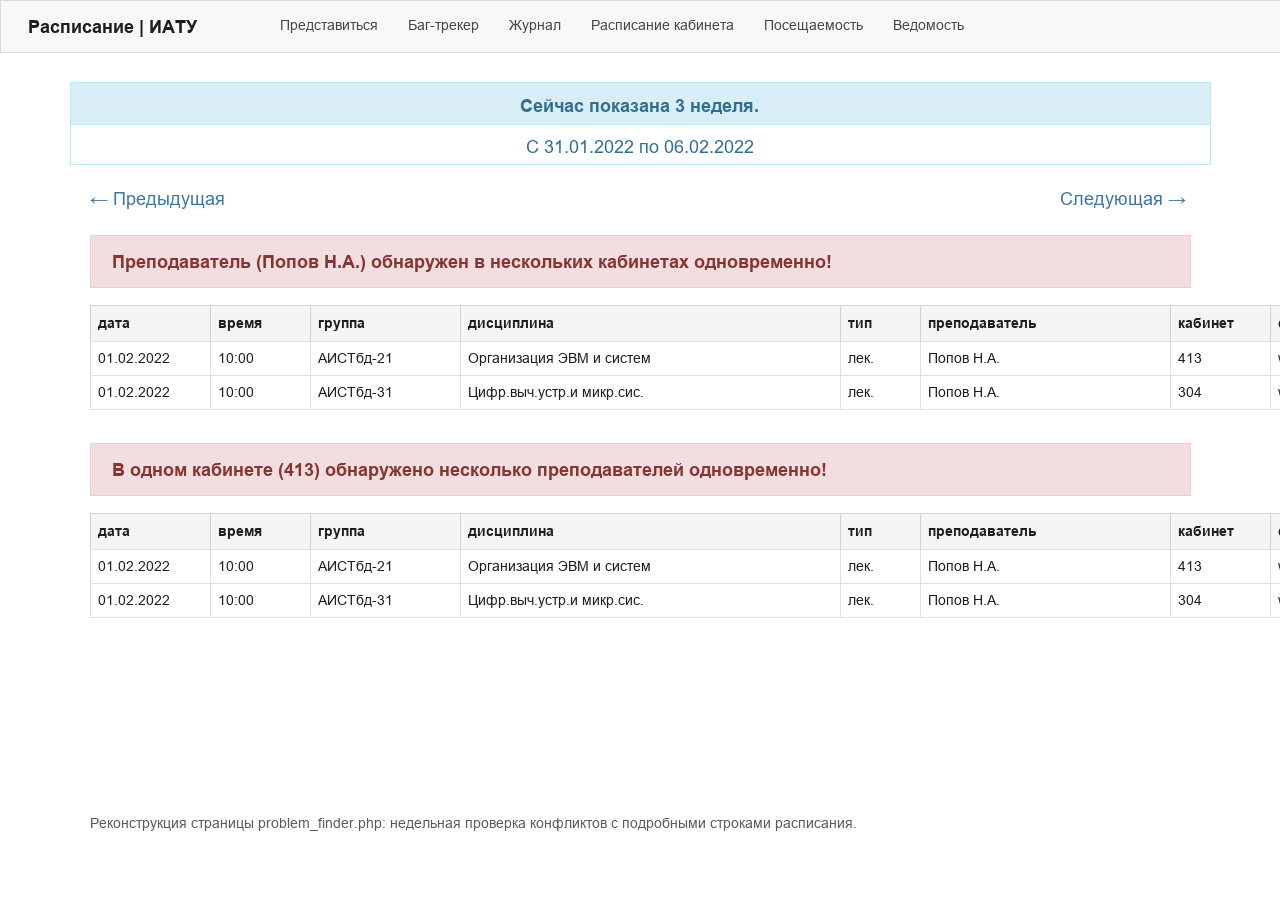
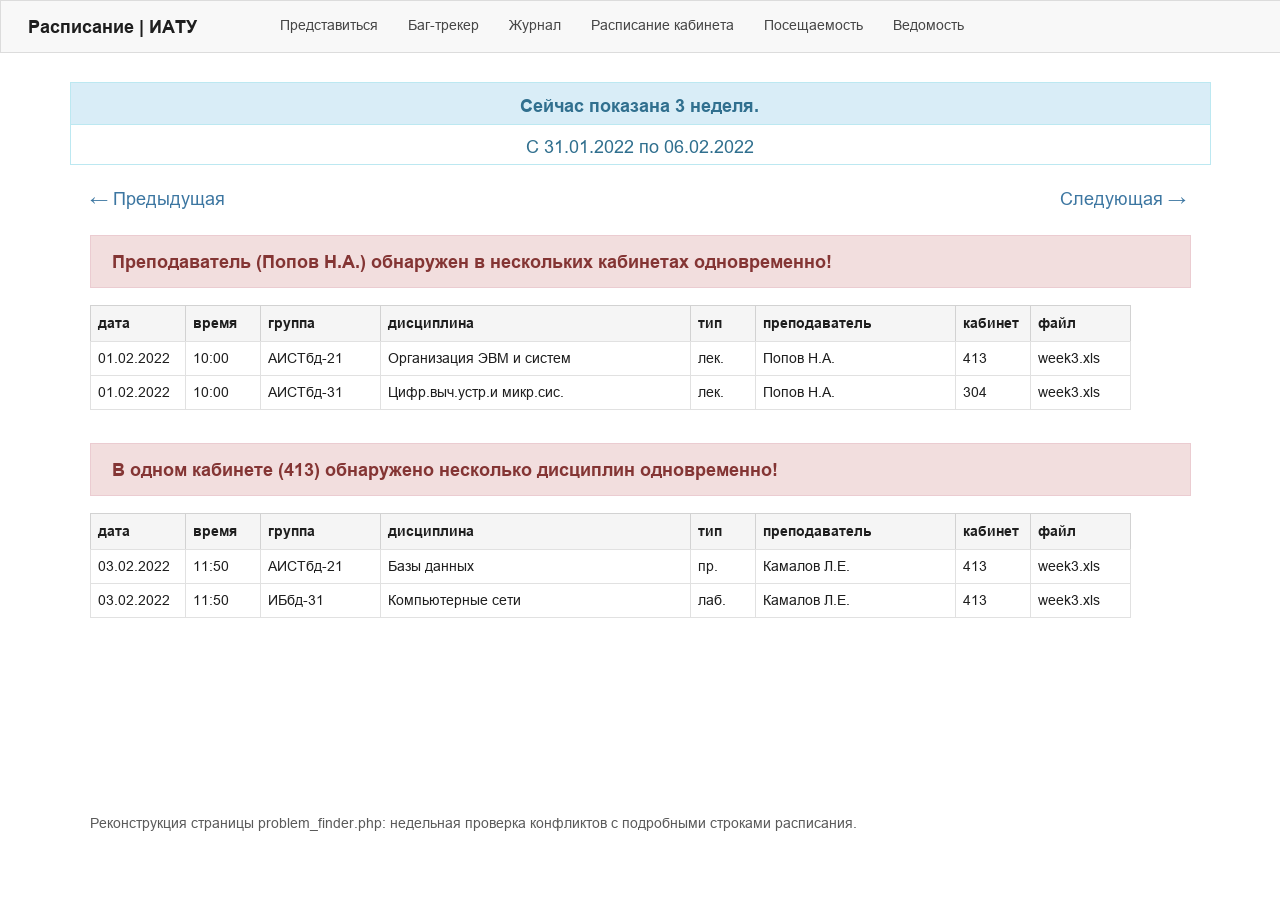
Fix conflict tracker mockup examples

diff --git a/docs/mockups/render_mockups.py b/docs/mockups/render_mockups.py
@@ -110,17 +110,29 @@ def render_conflict_mock():
     text(draw, (1060, 188), "Следующая →", font, (60, 118, 161))
 
     y = 235
-    alerts = [
-        "Преподаватель (Попов Н.А.) обнаружен в нескольких кабинетах одновременно!",
-        "В одном кабинете (413) обнаружено несколько преподавателей одновременно!",
+    conflicts = [
+        (
+            "Преподаватель (Попов Н.А.) обнаружен в нескольких кабинетах одновременно!",
+            [
+                ["01.02.2022", "10:00", "АИСТбд-21", "Организация ЭВМ и систем", "лек.", "Попов Н.А.", "413", "week3.xls"],
+                ["01.02.2022", "10:00", "АИСТбд-31", "Цифр.выч.устр.и микр.сис.", "лек.", "Попов Н.А.", "304", "week3.xls"],
+            ],
+        ),
+        (
+            "В одном кабинете (413) обнаружено несколько дисциплин одновременно!",
+            [
+                ["03.02.2022", "11:50", "АИСТбд-21", "Базы данных", "пр.", "Камалов Л.Е.", "413", "week3.xls"],
+                ["03.02.2022", "11:50", "ИБбд-31", "Компьютерные сети", "лаб.", "Камалов Л.Е.", "413", "week3.xls"],
+            ],
+        ),
     ]
 
-    for alert in alerts:
+    for alert, data in conflicts:
         rect(draw, (90, y, 1190, y + 52), (242, 222, 222), (235, 204, 209))
         text(draw, (112, y + 16), alert, font_b, (132, 53, 52))
         y += 70
 
-        col_widths = [120, 100, 150, 380, 80, 250, 100, 140]
+        col_widths = [95, 75, 120, 310, 65, 200, 75, 100]
         headers = ["дата", "время", "группа", "дисциплина", "тип", "преподаватель", "кабинет", "файл"]
         x = 90
         for col_width, header in zip(col_widths, headers):
@@ -128,10 +140,6 @@ def render_conflict_mock():
             text(draw, (x + 8, y + 10), header, font_sm_b)
             x += col_width
 
-        data = [
-            ["01.02.2022", "10:00", "АИСТбд-21", "Организация ЭВМ и систем", "лек.", "Попов Н.А.", "413", "week3.xls"],
-            ["01.02.2022", "10:00", "АИСТбд-31", "Цифр.выч.устр.и микр.сис.", "лек.", "Попов Н.А.", "304", "week3.xls"],
-        ]
         y += 36
         for row in data:
             x = 90
